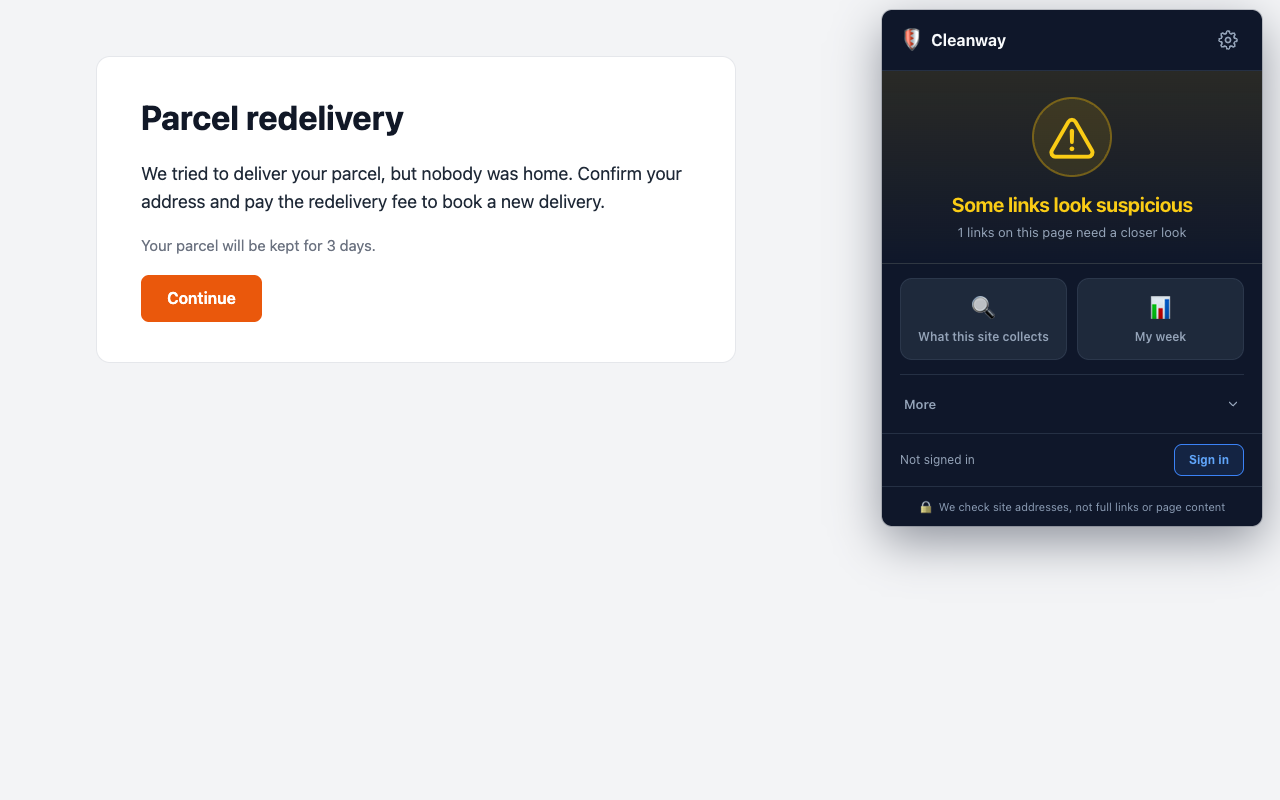
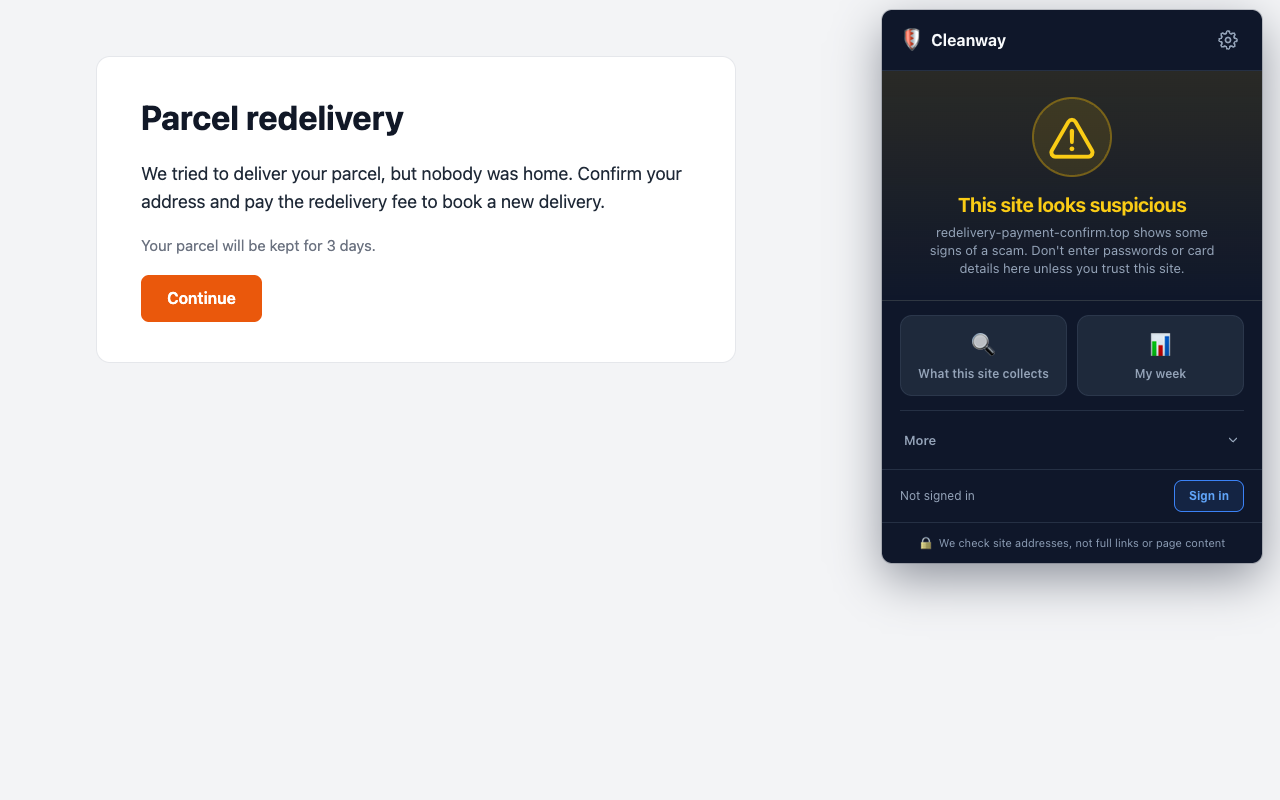
feat(store): en/03 снова в листинге — кадры «осторожно» пересняты с новой строкой
Попап «осторожно» больше не пишет «1 links on this page need a closer look»,
поэтому английский кадр 03-popup-caution.png возвращается в порядок загрузки:
оба листинга, en и ru, получают все пять скриншотов.

- store-assets/extension/{en,ru}/03-popup-caution.png пересняты
  scripts/store-screenshots/extension.mjs (Playwright 1.62.1 во временной
  папке, без новых зависимостей; папка удалена). Остальные восемь PNG вышли
  байт в байт те же. Сборка extension/ побайтно совпадает с
  dist/store-artifacts/cleanway-0.2.2-chrome.zip, README это пишет.
- readme.mjs: HOLD_BACK пуст (механизм остаётся), описание кадра 03 — новая
  строка. extension.mjs падает, если строка «осторожно» не называет демо-сайт
  или в ней появилась цифра.
- Документы больше не говорят «английский листинг — четыре кадра, без 03»:
  CWS_SUBMISSION §6/§8, STORES, STORE_SUBMISSION_KIT §2.3, USER_PLAYBOOK,
  USER_ACTION_NOW, USER_CHECKLIST, FOUNDER_TASKS,
  marketing/chrome-web-store-listing.md.

Changed region(s): [[0.6875, 0.375, 1.0, 0.75], [0.7188, 0.25, 0.9375, 0.3438], [0.875, 0.375, 0.9375, 0.4688]]

diff --git a/store-assets/extension/README.md b/store-assets/extension/README.md
@@ -11,7 +11,7 @@ same run.
 |------|---------------|
 | `01-block-page.png` | The block page for `parcel-redelivery-payment-verify.xyz`, opened from the red search result of 04: STOP, the site's name and the "Why we blocked this site" cards for the four signs the rules found. The tab was taken to the extension's own `src/blocked/blocked.html` when it opened that address, so the scam page never stays on screen. The page goes on below the 800 px window ("How scammers use sites like this", then "Go back to safety" and the "open anyway" button, captured after its 5-second countdown). |
 | `02-popup-safe.png` | The toolbar popup on an ordinary recipe page (`recipes.example`): "This page is safe". The two Wikipedia links in the text carry green ticks. The welcome tip had been closed with its × button, as a person would. |
-| `03-popup-caution.png` | The toolbar popup on a doubtful "pay the redelivery fee" page (`redelivery-payment-confirm.top`): the yellow "Some links look suspicious" state. A caution verdict does not block the page. In English the second line reads "1 links on this page need a closer look": that is the popup's own 0.2.2 wording, whose count is always 1 for the page itself (see "Upload order"). |
+| `03-popup-caution.png` | The toolbar popup on a doubtful "pay the redelivery fee" page (`redelivery-payment-confirm.top`): the yellow "This site looks suspicious" state. Its second line names the site, says it shows some signs of a scam and advises against entering passwords or card details there. A caution verdict does not block the page. |
 | `04-link-badges.png` | A search-results page (`search.example`) with a badge after every result: green ticks for Wikipedia and `help.parcel-service.example`, yellow marks for `redelivery-payment-confirm.top` and `track-parcel-update.xyz`, a red cross for `parcel-redelivery-payment-verify.xyz`. The red badge is hovered, so its tooltip shows the first three reasons. |
 | `05-settings.png` | The top of the Settings page with its defaults: not signed in, the "Who uses this browser" choice, and email scanning off. |
 
@@ -19,16 +19,12 @@ same run.
 
 | Listing | Upload, in this order |
 |---------|-----------------------|
-| `en/` | `01-block-page.png`, `02-popup-safe.png`, `04-link-badges.png`, `05-settings.png` |
+| `en/` | `01-block-page.png`, `02-popup-safe.png`, `03-popup-caution.png`, `04-link-badges.png`, `05-settings.png` |
 | `ru/` | `01-block-page.png`, `02-popup-safe.png`, `03-popup-caution.png`, `04-link-badges.png`, `05-settings.png` |
-
-The Chrome Web Store needs at least one screenshot and takes up to five, so a listing with four is complete.
-
-**Not uploaded: `en/03-popup-caution.png`.** It is true to the build, but its second line reads "1 links on this page need a closer look": the 0.2.2 popup builds that line from a link count the background never sends, so it always says 1, and the English text has no singular form. It stays in the folder; when a later version fixes the wording, rerun the script: it reads the popup's text and puts the shot back into this order by itself.
 
 ## What is real and what is staged
 
-- **The extension is the real build, unmodified.** `extension/` at version 0.2.2 (last changed in commit `e7d532bc`), loaded unpacked with `--load-extension` exactly as a person would load it. Compared with the store package `dist/store-artifacts/cleanway-0.2.2-chrome.zip`, these files differ: `src/utils/name-rules.js`, `src/utils/scorer-data.js`. They hold the offline rules, not the interface, and the package's rules give every demo host below the same verdict.
+- **The extension is the real build, unmodified.** `extension/` at version 0.2.2 (last changed in commit `f7925628`), loaded unpacked with `--load-extension` exactly as a person would load it. It is byte-identical to the store package `dist/store-artifacts/cleanway-0.2.2-chrome.zip`.
 - **The pages are demo pages.** The script serves the search results, the recipe and the two parcel pages itself, on made-up hosts (`.example` for the ordinary sites, scam-shaped `.xyz`/`.top` names for the bad ones). No real brand is imitated; Wikipedia only appears as a link.
 - **Every verdict comes from the extension's own rules.** The server is replaced by a stub inside the script, as in the browser test (`scripts/test-extension-sw.mjs`): it answers each site check with exactly the verdict the extension's offline rules (`src/utils/local-scorer.js`, read from the same build) give that host, and `GET /health` with 200 so the popup does not show its offline banner. With no server at all the extension shows the same badges and blocks the same page, because its content script scores every host itself first. Nothing the extension shows was invented by the script: no verdict, reason, count or score. The production server, which also uses blocklists, DNS, page checks and an ML model, may say more about real sites.
 - **Not shown because the stub does not answer it:** the block page's "What kind of scam is this?" paragraph (`POST /api/v1/explain`). Without it the block page looks exactly as in 01, which is what a person sees when that answer does not arrive. The offline rules give no confidence figure, so no confidence chip appears either. The popup's statistics stay folded under "More".

diff --git a/docs/CWS_SUBMISSION.md b/docs/CWS_SUBMISSION.md
@@ -153,13 +153,10 @@ captures of the 0.2.2 build in `store-assets/extension/{en,ru}/`:
 4. `04-link-badges.png` — badges on search results, the red one's tooltip open
 5. `05-settings.png` — the Settings page
 
-Upload in that order, but **not `en/03-popup-caution.png`**: the English listing
-gets four (01, 02, 04, 05), the Russian one all five. In English the 0.2.2
-popup's caution line reads "1 links on this page need a closer look" (its count
-is always 1 and the string has no singular form), and that slip should not go on
-the listing. The Chrome Web Store needs at least one screenshot and takes up to
-five, so four is a complete listing. Once a later version fixes the wording,
-rerun the script and add `en/03` back.
+Upload all five in that order, in both languages. (`en/03` used to be left out:
+the popup's caution line read "1 links on this page need a closer look", a count
+the background never sent. The line now names the site and gives no count, and
+the shot was retaken.)
 
 They are made by `scripts/store-screenshots/extension.mjs` (one command, no live
 API, no repo dependency; how to rerun after a UI change is in
@@ -191,8 +188,8 @@ Audit panel.
 5. [ ] Fill Privacy practices (§4): tick every category marked YES, add the
        justification text, tick the 3 certifications, add the privacy-policy URL.
 6. [ ] "Are you using remote code?" → **No**.
-7. [ ] Upload the screenshots (English: `store-assets/extension/en/` 01, 02, 04, 05,
-       without 03; Russian listing: `ru/` 01…05) and the promo tiles (§6).
+7. [ ] Upload the screenshots (English: `store-assets/extension/en/` 01…05;
+       Russian listing: `ru/` 01…05) and the promo tiles (§6).
 8. [ ] Submit. Chrome review is typically 1–3 business days.
 
 Then repeat for Edge/Opera with the same ZIP (Edge validator is pickier on

diff --git a/docs/USER_ACTION_NOW.md b/docs/USER_ACTION_NOW.md
@@ -44,8 +44,7 @@
 ### 2. Скриншоты для листинга — готовы, снимать не нужно
 5 скриншотов 1280×800 (EN и RU) лежат в `store-assets/extension/{en,ru}/`, их делает
 `scripts/store-screenshots/extension.mjs`. Что на каждом и что загружать —
-`store-assets/extension/README.md`. В английский листинг идут четыре (01, 02, 04, 05):
-в `en/03` попап 0.2.2 пишет «1 links on this page need a closer look». В русский — все пять.
+`store-assets/extension/README.md`. И в английский, и в русский листинг идут все пять.
 
 ### 3. Rotate Anthropic API key + Railway env
 **Что:** Пересоздать Anthropic ключ, положить в Railway.
@@ -85,7 +84,7 @@
 2. Upload `dist/store-artifacts/cleanway-0.2.2-chrome.zip` (⚠ имя такое, не `cleanway-extension.zip`).
 3. Листинг: copy-paste из `extension/STORE_LISTING.md`, ответы для проверки — из
    `docs/CWS_SUBMISSION.md` (`docs/marketing/chrome-web-store-listing.md` больше не источник).
-4. Загрузить скриншоты из `store-assets/extension/en/`: 01, 02, 04, 05 (шаг 2).
+4. Загрузить скриншоты из `store-assets/extension/en/`: 01…05 (шаг 2).
 5. Submit → статус «In review».
 **Зачем:** это и есть distribution — без листинга ноль пользователей. Всё остальное к этому.
 **Совет:** можно сабмитить как **Unlisted** сначала (доступ только по прямой ссылке) —

diff --git a/docs/marketing/chrome-web-store-listing.md b/docs/marketing/chrome-web-store-listing.md
@@ -124,9 +124,8 @@ badges, the methodology page, Family Hub). The screenshots are ready in
 `store-assets/extension/{en,ru}/` (1280×800, real captures of 0.2.2, made by
 `scripts/store-screenshots/extension.mjs`): `01-block-page.png`,
 `02-popup-safe.png`, `03-popup-caution.png`, `04-link-badges.png`,
-`05-settings.png`. The English listing takes 01, 02, 04 and 05 (not 03, whose
-popup line reads "1 links on this page need a closer look"); the Russian one all
-five. What each shows and the upload order: `store-assets/extension/README.md`.
+`05-settings.png`. Both listings take all five. What each shows and the upload
+order: `store-assets/extension/README.md`.
 
 ---
 
@@ -172,7 +171,7 @@ five. What each shows and the upload order: `store-assets/extension/README.md`.
 - [ ] ZIP is `dist/store-artifacts/cleanway-0.2.2-chrome.zip`, rebuilt clean via `bash scripts/build-extensions.sh && bash scripts/build-store-artifacts.sh`
 - [ ] Privacy policy URL works: https://cleanway.ai/privacy-policy
 - [ ] Permissions justifications match what manifest.json actually requests
-- [ ] Screenshots uploaded from `store-assets/extension/` (EN: 01, 02, 04, 05; RU: 01–05)
+- [ ] Screenshots uploaded from `store-assets/extension/` (EN: 01–05; RU: 01–05)
 - [ ] Promo tile uploaded (440×280)
 - [ ] Detailed description ≤ 16000 chars
 - [ ] No competitor names in detailed description

diff --git a/docs/USER_PLAYBOOK.md b/docs/USER_PLAYBOOK.md
@@ -148,7 +148,7 @@
   1. https://chrome.google.com/webstore/devconsole/ — buy developer account ($5 one-time)
   2. New item → upload `dist/store-artifacts/cleanway-0.2.2-chrome.zip`
   3. Листинг и ответы для проверки — по `docs/CWS_SUBMISSION.md` (тексты из `extension/STORE_LISTING.md`; `docs/marketing/chrome-web-store-listing.md` больше не источник)
-  4. Скриншоты 1280×800 уже готовы, снимать не нужно: `store-assets/extension/en/` 01, 02, 04, 05 (без 03), для русского листинга `ru/` все пять; что на каждом и почему без `en/03` — `store-assets/extension/README.md`
+  4. Скриншоты 1280×800 уже готовы, снимать не нужно: `store-assets/extension/en/` все пять (01…05), для русского листинга `ru/` тоже все пять; что на каждом — `store-assets/extension/README.md`
   5. Submit for review
 - **Сколько:** 45 минут (most of it — filling listing copy)
 - **Review SLA:** 1-7 days

diff --git a/docs/USER_CHECKLIST.md b/docs/USER_CHECKLIST.md
@@ -36,7 +36,7 @@
 - [ ] **17. Mobile horizontal-overflow E2E локально** · cd landing && npx playwright test e2e/mobile.spec.ts --project=mobile-safari · 30 мин · если passes — убери `.skip` и закоммить; если fails — note в issue
 
 ### Пятница 2026-07-03, 14:00-18:00 (~45 мин)
-- [ ] **18. 🎯 Chrome Web Store submission** · chrome.google.com/webstore/devconsole · 45 мин · buy $5 dev account → upload `dist/store-artifacts/cleanway-0.2.2-chrome.zip` → листинг по `docs/CWS_SUBMISSION.md` → готовые скриншоты из `store-assets/extension/en/` (01, 02, 04, 05; см. README там) → submit · status = "In review" by EOD
+- [ ] **18. 🎯 Chrome Web Store submission** · chrome.google.com/webstore/devconsole · 45 мин · buy $5 dev account → upload `dist/store-artifacts/cleanway-0.2.2-chrome.zip` → листинг по `docs/CWS_SUBMISSION.md` → готовые скриншоты из `store-assets/extension/en/` (01…05; см. README там) → submit · status = "In review" by EOD
 
 ---
 

diff --git a/docs/FOUNDER_TASKS.md b/docs/FOUNDER_TASKS.md
@@ -52,8 +52,7 @@
    ⚠ *Это самое важное: декларация выверена по реальному коду (16 путей egress). Если
    написать не то — снимут с публикации.*
 6. Загрузить скриншоты — они уже готовы, снимать не нужно, порядок из §6:
-   английский листинг — `store-assets/extension/en/` 01, 02, 04, 05 (**без 03**: там
-   ошибка в тексте попапа 0.2.2, «1 links»), русский — `ru/` все пять.
+   английский листинг — `store-assets/extension/en/` все пять, русский — `ru/` все пять.
    Их снимает скрипт `scripts/store-screenshots/extension.mjs` в настоящем Chromium с
    настоящим расширением (контент-скрипт там работает).
 7. Submit. Ревью Chrome обычно 1–3 дня.

diff --git a/docs/STORES.md b/docs/STORES.md
@@ -100,9 +100,7 @@ grep '"version"' extension/manifest.json
    (Russian listing: `ru/`), in this order:
    - 1. `01-block-page.png` — block page with the "why we blocked" cards
    - 2. `02-popup-safe.png` — popup, safe verdict
-   - 3. `03-popup-caution.png` — popup, caution verdict (**Russian listing only**:
-     the English one reads "1 links on this page need a closer look", a 0.2.2
-     wording slip, so the English listing gets four shots)
+   - 3. `03-popup-caution.png` — popup, caution verdict
    - 4. `04-link-badges.png` — link badges on search results, red tooltip open
    - 5. `05-settings.png` — Settings
    Made by `scripts/store-screenshots/extension.mjs`; what each shows, the upload
